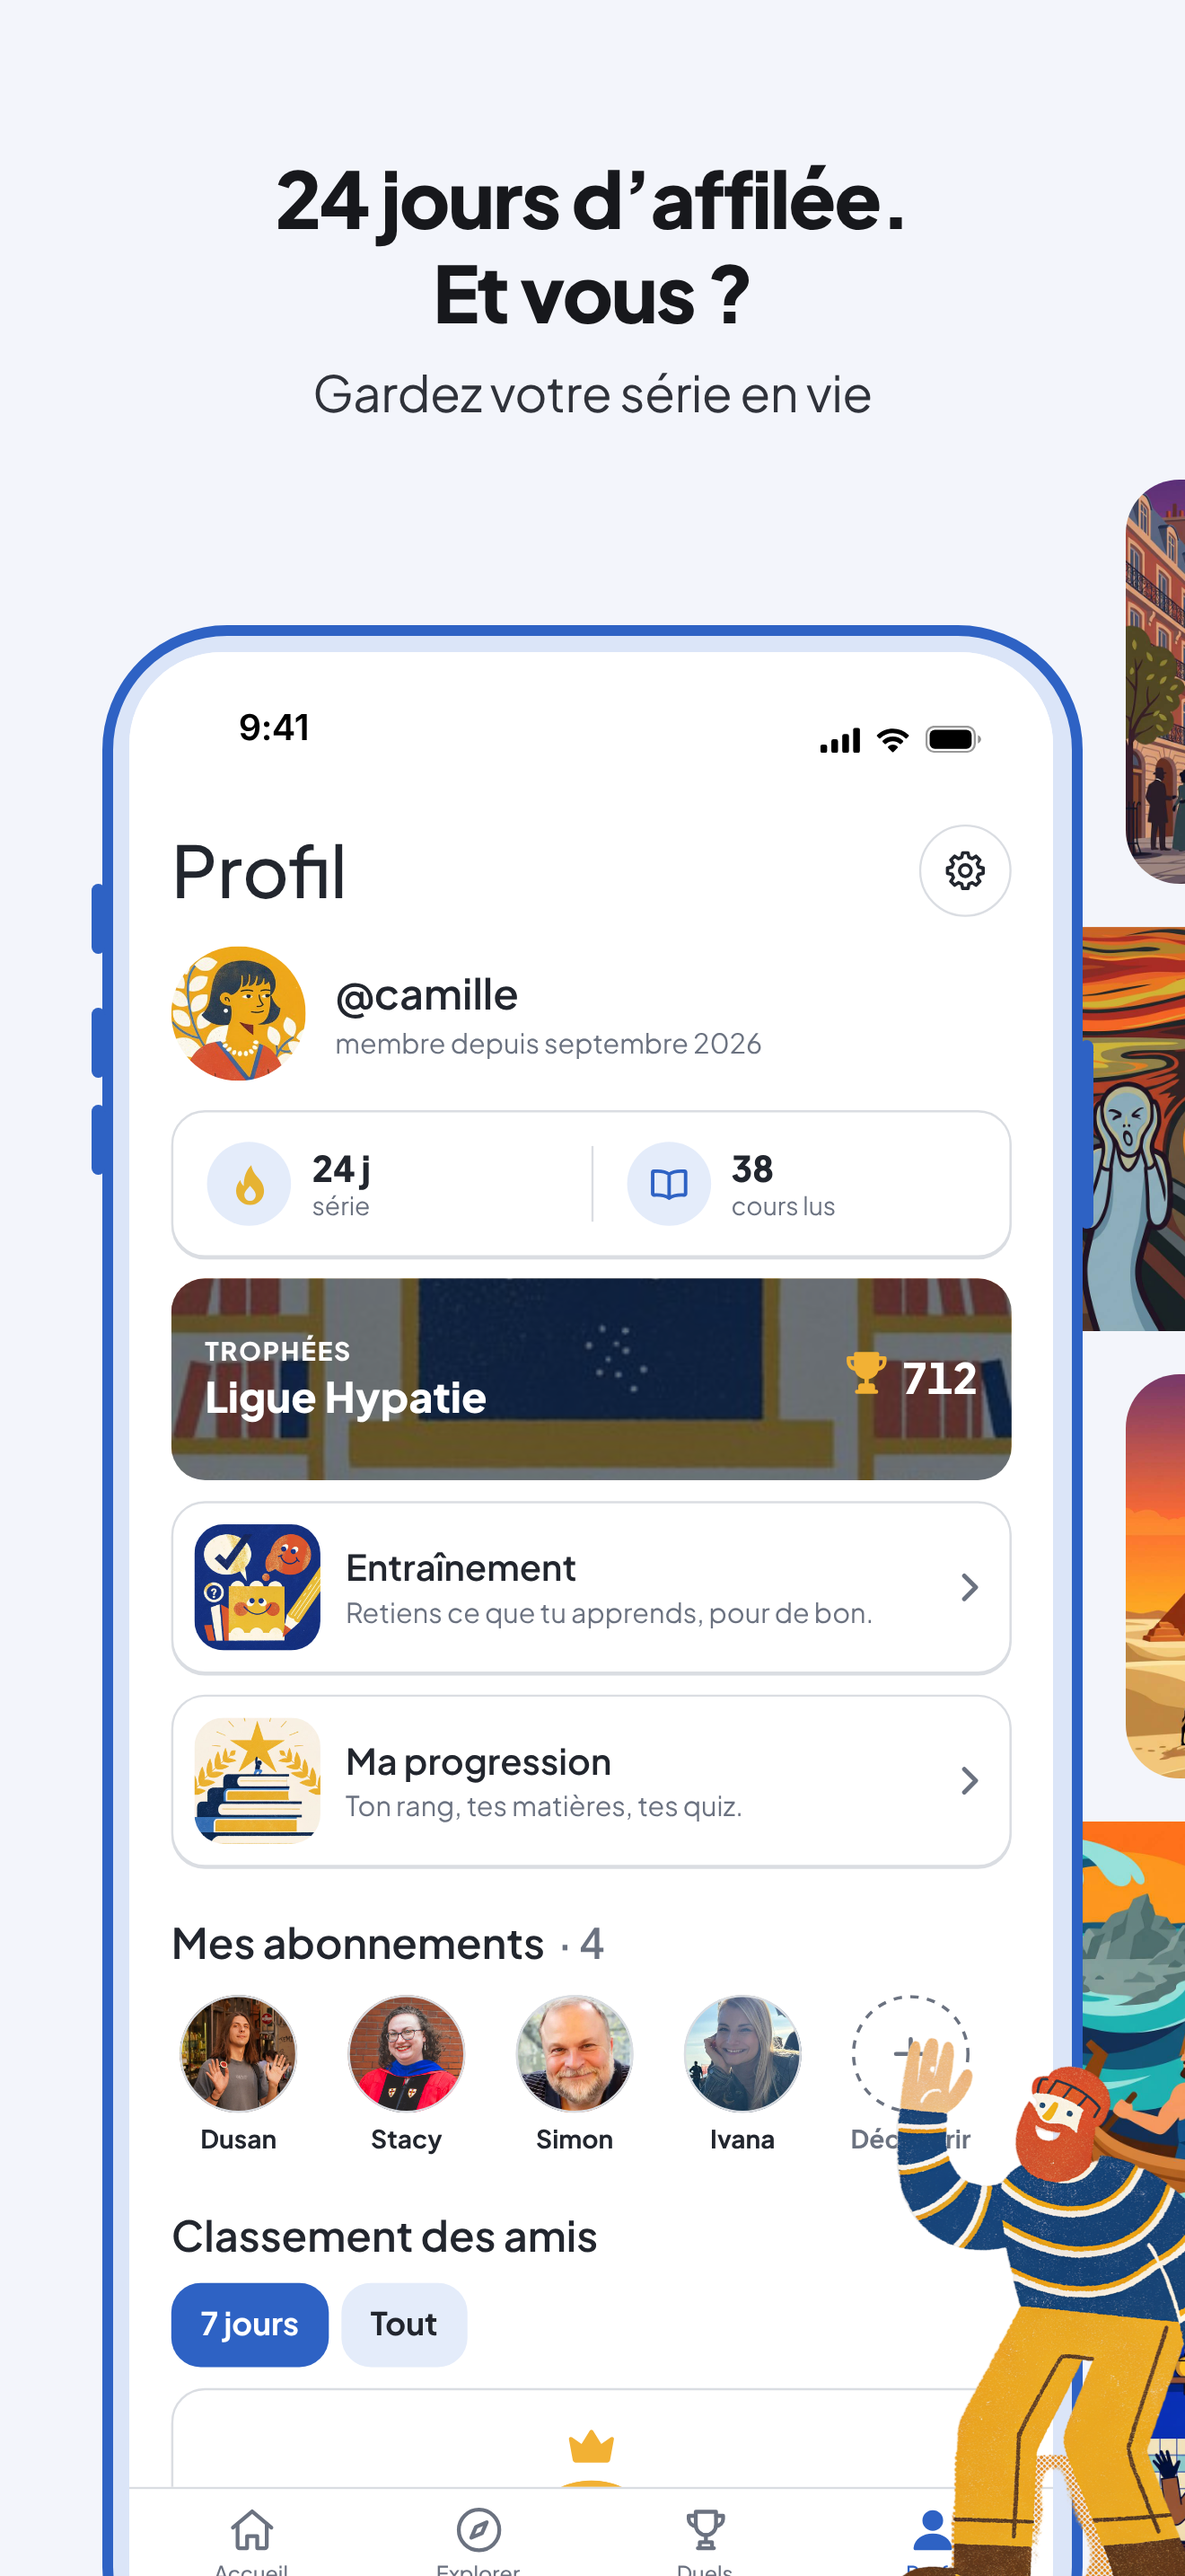
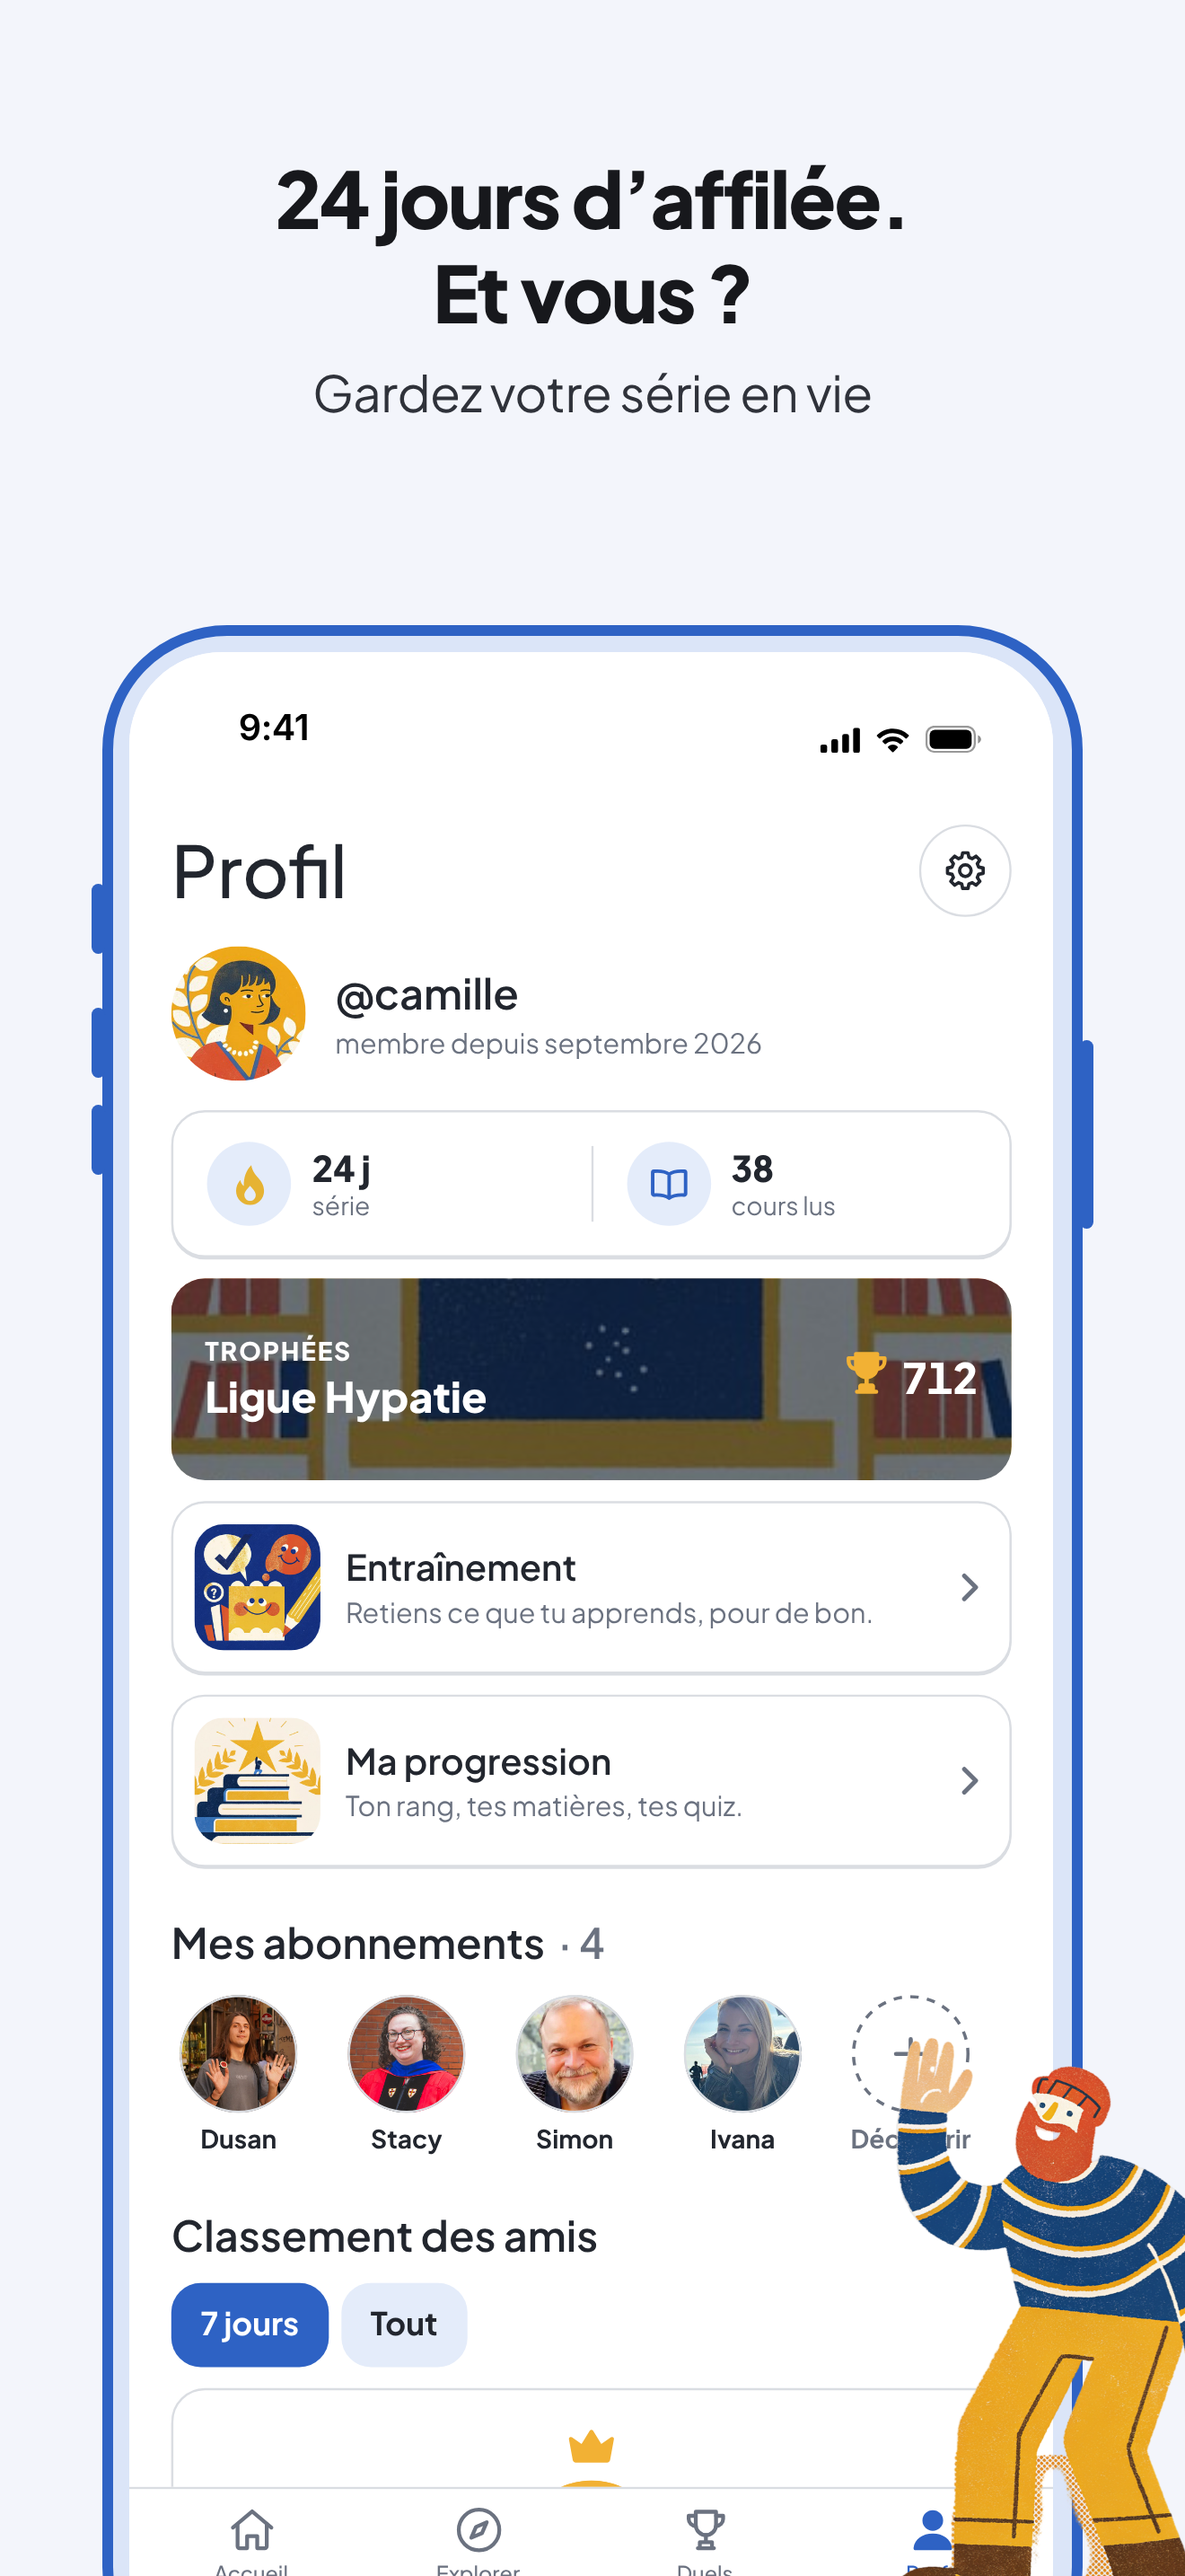
Captures App Store, vitrine : ecran des avis
Dixieme panneau « Les gens adorent Sophia » avec trois vrais avis 5 etoiles
de l'App Store francais, cites tels quels.

Claude-Session: https://claude.ai/code/session_01Yb4eBsmKHAU4mkJzSv6usd

Changed region(s): [[0.9008, 0.1862, 1.0, 0.8689], [0.9629, 0.8999, 1.0, 0.993]]

diff --git a/appstore/screenshots/src/pano.js b/appstore/screenshots/src/pano.js
@@ -93,6 +93,14 @@ const PANOS = {
       explore: ["De Kafka<br>aux trous noirs", "Histoire, sciences, art, mythologie…"],
       profile: ["24 jours d’affilée.<br>Et vous\u00a0?", "Gardez votre série en vie"],
       wall: ["Plus de 300 cours.<br>Zéro ennui."],
+      love: ["Les gens adorent<br>Sophia"],
+      // Real five-star reviews from the French App Store (public RSS feed, read on 13 Nov 2026),
+      // quoted as written; « […] » marks a cut. Do not edit the wording or add invented ones.
+      reviews: [
+        ["«\u00a0Une appli simple d’utilisation et hyper pratique pour se cultiver au quotidien\u00a0!\u00a0»", "gab24738 · App Store"],
+        ["«\u00a0Meilleur appli pour devenir plus cultivé et en apprendre plus sur tout mais de manière drôle et pas «\u00a0scolaire\u00a0». […] Bref, j’adore\u00a0»", "Leo•go · App Store"],
+        ["«\u00a0Difficile de se lasser face à la pléthore de cours et d’informations nouvelles à retenir et à apprécier.\u00a0»", "Simon B. · App Store"],
+      ],
     }) },
     panels: [
       { theme: "blue", logo: "big", bubble: "hero" },
@@ -105,6 +113,7 @@ const PANOS = {
         ["l_odyssee_homere", "beethoven_genie_et_surdite", "comment_se_forment_les_eclairs", "la_decouverte_de_l_amerique_1492"],
         ["la_decouverte_du_micro_ondes", "icare_et_dedale", "fresh_coriander_cilantro_bunch_leaves", "la_montee_des_eaux"],
       ] },
+      { theme: "pale", text: "love", cls: "center", reviews: "reviews" },
     ],
     phones: ["home", "reader", "quiz", "duels", "blocker", "explore", "profile"].map((s, k) => ({
       screen: s, cx: mid(k + 1), cy: 232 + (956 * 0.78 + 21) / 2, s: 0.78,
@@ -123,8 +132,13 @@ const PANOS = {
       { name: "reader_walking", x: P(1) - 8, b: 962, h: 265, z: 4 },
       { name: "phone_away", x: P(5) + 372, b: 975, h: 215, flip: true },
       { name: "waving", x: P(7) + 398, b: 966, h: 210, flip: true },
+      { name: "headphones", x: P(9) + 88, b: 975, h: 235, r: -3 },
+      { name: "trophy", x: P(9) + 250, b: 985, h: 200 },
     ],
     extras: [
+      { x: P(9) + 22, y: 96, html: '<svg width="40" height="40" viewBox="0 0 24 22" style="transform:rotate(-12deg)"><path fill="#f4a3c4" d="M12 21C5 16 1 12 1 7.500 1 4 3.700 1.500 7 1.500c2 0 3.800 1 5 2.700 1.200-1.700 3-2.700 5-2.700 3.300 0 6 2.500 6 6 0 4.500-4 8.500-11 13.500Z"/></svg>' },
+      { x: P(9) + 372, y: 62, html: '<svg width="54" height="54" viewBox="0 0 24 22" style="transform:rotate(14deg)"><path fill="#f4a3c4" d="M12 21C5 16 1 12 1 7.500 1 4 3.700 1.500 7 1.500c2 0 3.800 1 5 2.700 1.200-1.700 3-2.700 5-2.700 3.300 0 6 2.500 6 6 0 4.500-4 8.500-11 13.500Z"/></svg>' },
+      { x: P(9) + 384, y: 880, html: '<svg width="44" height="44" viewBox="0 0 24 22" style="transform:rotate(10deg)"><path fill="#f4a3c4" d="M12 21C5 16 1 12 1 7.500 1 4 3.700 1.500 7 1.500c2 0 3.800 1 5 2.700 1.200-1.700 3-2.700 5-2.700 3.300 0 6 2.500 6 6 0 4.500-4 8.500-11 13.500Z"/></svg>' },
       { x: 150, y: 150, html: '<svg width="26" height="26" viewBox="0 0 24 24"><path fill="#fef5e9" d="M12 0c1 7 4 10 12 12-8 2-11 5-12 12-1-7-4-10-12-12 8-2 11-5 12-12Z"/></svg>' },
       { x: 300, y: 60, html: '<svg width="18" height="18" viewBox="0 0 24 24"><path fill="#f2b134" d="M12 0c1 7 4 10 12 12-8 2-11 5-12 12-1-7-4-10-12-12 8-2 11-5 12-12Z"/></svg>' },
       { x: 330, y: 470, html: '<svg width="20" height="20" viewBox="0 0 24 24"><path fill="#f2b134" d="M12 0c1 7 4 10 12 12-8 2-11 5-12 12-1-7-4-10-12-12 8-2 11-5 12-12Z"/></svg>' },

diff --git a/appstore/screenshots/src/pano.html b/appstore/screenshots/src/pano.html
@@ -13,7 +13,7 @@
 html, body { margin: 0; }
 /* One wide canvas, 440 pt per App Store panel; render-pano.cjs cuts it into panels. */
 body { height: 956px; overflow: hidden; position: relative; font-family: "Plus Jakarta Sans", sans-serif; -webkit-font-smoothing: antialiased; }
-.panel { position: absolute; top: 0; width: 440px; height: 956px; }
+.panel { position: absolute; top: 0; width: 440px; height: 956px; overflow: hidden; }
 .panel.cream { background: #fef5e9; color: #17181c; --sub: #3d3f47; }
 .panel.coral { background: #dc6048; color: #fff; --sub: #fff; }
 .panel.navy  { background: #1a3a6b; color: #fff; --sub: #e6ecf7; }
@@ -40,6 +40,11 @@ body { height: 956px; overflow: hidden; position: relative; font-family: "Plus J
 .phone.thick::after { right: -8px; top: 150px; height: 70px; }
 .tile { position: absolute; width: 150px; height: 150px; border-radius: 20px; object-fit: cover; z-index: 1; }
 .extra { position: absolute; z-index: 6; }
+.reviews { position: absolute; left: 26px; right: 26px; top: 176px; display: flex; flex-direction: column; gap: 16px; z-index: 4; }
+.review { background: #fff; border-radius: 18px; border: 1.5px solid #dfe4ee; padding: 20px 20px 18px; text-align: center; }
+.review .stars { display: flex; justify-content: center; gap: 4px; margin-bottom: 12px; }
+.review q { display: block; quotes: none; font-size: 17.5px; line-height: 1.38; font-weight: 500; color: #22262e; }
+.review .who { margin-top: 10px; font-size: 13.5px; color: #6b7280; font-weight: 500; }
 .text.right { text-align: right; left: 26px; right: 30px; }
 .text h1 { margin: 0; font-weight: 800; font-size: 34px; line-height: 1.14; letter-spacing: -0.03em; }
 .text p { margin: 11px 0 0; font-size: 18.5px; line-height: 1.3; font-weight: 500; color: var(--sub); letter-spacing: -0.01em; }
@@ -75,6 +80,10 @@ body { height: 956px; overflow: hidden; position: relative; font-family: "Plus J
     (p.grid || []).forEach((row, r) => row.forEach((f, c) => {
       html += `<img class="tile" src="../../../ios/Sophia/CourseImages/${f}.jpg" style="left:${c * 166 - (r % 2 ? 98 : 22)}px; top:${178 + r * 166}px">`;
     }));
+    if (p.reviews) {
+      const star = '<svg width="19" height="19" viewBox="0 0 24 24"><path fill="#f2a31b" d="M12 1.800l3.100 6.600 7.100.900-5.200 5 1.300 7.100L12 18l-6.300 3.400 1.300-7.100-5.200-5 7.100-.900L12 1.800Z"/></svg>';
+      html += `<div class="reviews">${T[p.reviews].map(([quote, who]) => `<div class="review"><div class="stars">${star.repeat(5)}</div><q>${quote}</q><div class="who">${who}</div></div>`).join("")}</div>`;
+    }
     el.innerHTML = html; document.body.appendChild(el);
   });
   (V.extras || []).forEach((x) => {

diff --git a/appstore/screenshots/README.md b/appstore/screenshots/README.md
@@ -47,4 +47,6 @@ have: « 30 ligues à gravir » and « Reprenez votre temps ».
 
 `vitrine` opens with a brand-blue panel (characters, logo, speech bubble), continues with upright
 phones in a thick blue frame under a centred title, and closes on a wall of real course covers.
-It has no reviews panel: quotes and star ratings must come from real App Store reviews.
+Its last panel quotes three real five-star reviews from the French App Store (app id 6760919622,
+public customer-reviews feed, read on 13 November 2026), word for word. Replace them only with
+other real reviews; a translated set needs reviews from that country's store.
